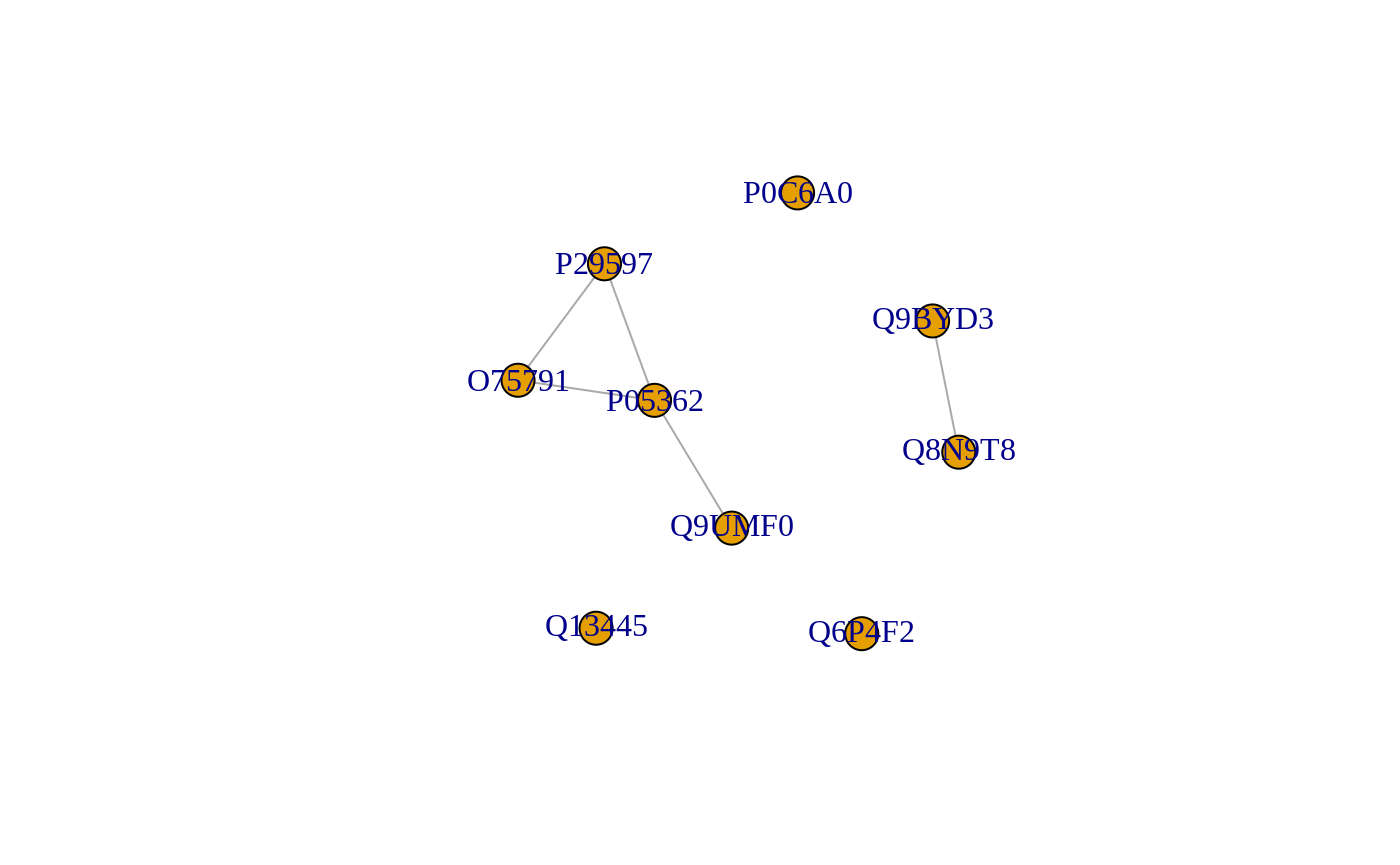
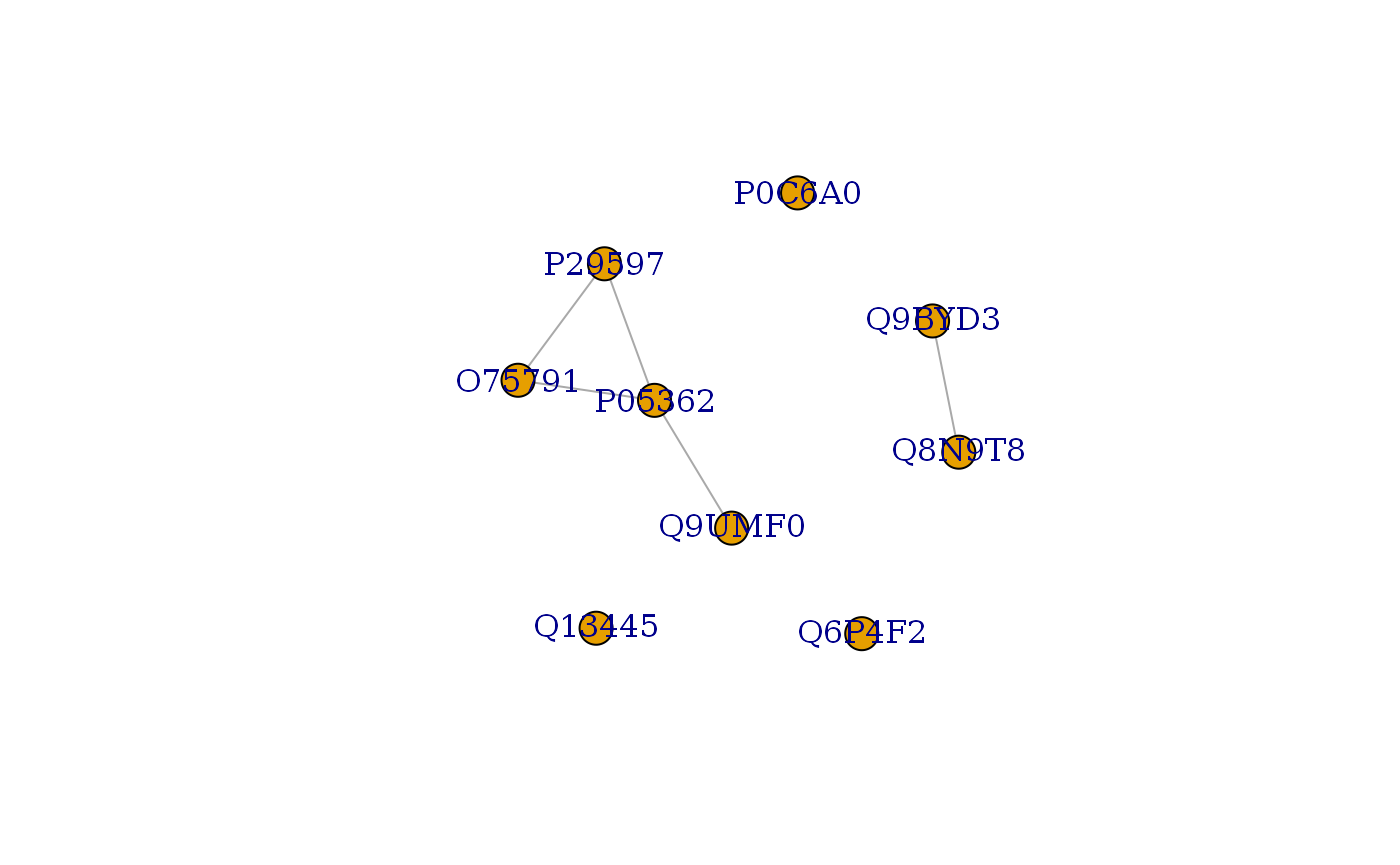
Built site for epigraphdb: 0.2.1@ec16644

diff --git a/articles/case-3-literature-triangulation.html b/articles/case-3-literature-triangulation.html
@@ -558,8 +558,10 @@
   <span class="kw">colrs</span> <span class="op">&lt;-</span> <span class="fu"><a href="https://rdrr.io/r/base/c.html">c</a></span>(<span class="st">"tomato"</span>, <span class="st">"steelblue"</span>, <span class="st">"gold"</span>)
   <span class="fu"><a href="https://rdrr.io/pkg/igraph/man/V.html">V</a></span>(<span class="kw">graph</span>)<span class="op">$</span><span class="kw">color</span> <span class="op">&lt;-</span> <span class="kw">colrs</span>[<span class="fu"><a href="https://rdrr.io/pkg/igraph/man/V.html">V</a></span>(<span class="kw">graph</span>)<span class="op">$</span><span class="kw">node_type</span>]
 
-  <span class="co"># set all plot margins to zero</span>
-  <span class="fu"><a href="https://rdrr.io/r/graphics/par.html">par</a></span>(mar = <span class="fu"><a href="https://rdrr.io/r/base/c.html">c</a></span>(<span class="fl">0</span>, <span class="fl">0</span>, <span class="fl">0</span>, <span class="fl">0</span>))
+  <span class="co"># Configure canvas</span>
+  <span class="kw">default_mar</span> <span class="op">&lt;-</span> <span class="fu"><a href="https://rdrr.io/r/graphics/par.html">par</a></span>(<span class="st">"mar"</span>)
+  <span class="kw">new_mar</span> <span class="op">&lt;-</span> <span class="fu"><a href="https://rdrr.io/r/base/c.html">c</a></span>(<span class="fl">0</span>, <span class="fl">0</span>, <span class="fl">0</span>, <span class="fl">0</span>)
+  <span class="fu"><a href="https://rdrr.io/r/graphics/par.html">par</a></span>(mar = <span class="kw">new_mar</span>)
 
   <span class="fu"><a href="https://rdrr.io/pkg/igraph/man/plot.igraph.html">plot.igraph</a></span>(<span class="kw">graph</span>,
     vertex.size = <span class="fl">13</span>,
@@ -571,6 +573,7 @@
     edge.label.family = <span class="st">"Helvetica"</span>,
     edge.label.cex = <span class="fl">0.5</span>
   )
+  <span class="fu"><a href="https://rdrr.io/r/graphics/par.html">par</a></span>(mar = <span class="kw">default_mar</span>)
 }
 </pre></div>
 <div class="sourceCode" id="cb16"><pre class="downlit">
@@ -657,17 +660,18 @@
 <span class="co">#&gt; [5] purrr_0.3.4      dplyr_1.0.2      magrittr_1.5    </span>
 <span class="co">#&gt; </span>
 <span class="co">#&gt; loaded via a namespace (and not attached):</span>
-<span class="co">#&gt;  [1] pillar_1.4.6       compiler_4.0.0     tools_4.0.0        digest_0.6.25     </span>
+<span class="co">#&gt;  [1] compiler_4.0.0     pillar_1.4.6       tools_4.0.0        digest_0.6.25     </span>
 <span class="co">#&gt;  [5] jsonlite_1.7.0     evaluate_0.14      memoise_1.1.0      lifecycle_0.2.0   </span>
 <span class="co">#&gt;  [9] tibble_3.0.3       gtable_0.3.0       pkgconfig_2.0.3    rlang_0.4.7       </span>
 <span class="co">#&gt; [13] cli_2.0.2          curl_4.3           yaml_2.2.1         pkgdown_1.5.1.9000</span>
 <span class="co">#&gt; [17] xfun_0.16          withr_2.2.0        stringr_1.4.0      httr_1.4.2        </span>
 <span class="co">#&gt; [21] knitr_1.29         generics_0.0.2     desc_1.2.0         fs_1.5.0          </span>
-<span class="co">#&gt; [25] vctrs_0.3.2        rprojroot_1.3-2    grid_4.0.0         tidyselect_1.1.0  </span>
-<span class="co">#&gt; [29] R6_2.4.1           fansi_0.4.1        rmarkdown_2.3.3    farver_2.0.3      </span>
-<span class="co">#&gt; [33] backports_1.1.8    scales_1.1.1       ellipsis_0.3.1     htmltools_0.5.0   </span>
-<span class="co">#&gt; [37] assertthat_0.2.1   colorspace_1.4-1   labeling_0.3       utf8_1.1.4        </span>
-<span class="co">#&gt; [41] stringi_1.4.6      munsell_0.5.0      crayon_1.3.4</span>
+<span class="co">#&gt; [25] vctrs_0.3.2        systemfonts_0.2.3  rprojroot_1.3-2    grid_4.0.0        </span>
+<span class="co">#&gt; [29] tidyselect_1.1.0   R6_2.4.1           fansi_0.4.1        rmarkdown_2.3.3   </span>
+<span class="co">#&gt; [33] farver_2.0.3       backports_1.1.9    scales_1.1.1       ellipsis_0.3.1    </span>
+<span class="co">#&gt; [37] htmltools_0.5.0    assertthat_0.2.1   colorspace_1.4-1   labeling_0.3      </span>
+<span class="co">#&gt; [41] ragg_0.3.1         utf8_1.1.4         stringi_1.4.6      munsell_0.5.0     </span>
+<span class="co">#&gt; [45] crayon_1.3.4</span>
 </pre></div>
 </div>
   </div>

diff --git a/news/index.html b/news/index.html
@@ -158,12 +158,14 @@
 
     <div id="epigraphdb-0-2-1-900" class="section level1">
 <h1 class="page-header" data-toc-text="0.2.1.900">
-<a href="#epigraphdb-0-2-1-900" class="anchor"></a>epigraphdb 0.2.1.900</h1>
+<a href="#epigraphdb-0-2-1-900" class="anchor"></a>epigraphdb 0.2.1.900<small> Unreleased </small>
+</h1>
 <p>Current ongoing development.</p>
 </div>
     <div id="epigraphdb-0-2-1-2020-08-06" class="section level1">
 <h1 class="page-header" data-toc-text="0.2.1">
-<a href="#epigraphdb-0-2-1-2020-08-06" class="anchor"></a>epigraphdb 0.2.1 (2020-08-06)</h1>
+<a href="#epigraphdb-0-2-1-2020-08-06" class="anchor"></a>epigraphdb 0.2.1 (2020-08-06)<small> 2020-08-26 </small>
+</h1>
 <ul>
 <li>use <code><a href="https://httr.r-lib.org/reference/RETRY.html">httr::RETRY</a></code> to mitigate problems due to network errors.</li>
 <li>Shortened the startup message.</li>
@@ -176,14 +178,16 @@
 </div>
     <div id="epigraphdb-0-2-2020-04-21" class="section level1">
 <h1 class="page-header" data-toc-text="0.2">
-<a href="#epigraphdb-0-2-2020-04-21" class="anchor"></a>epigraphdb 0.2 (2020-04-21)</h1>
+<a href="#epigraphdb-0-2-2020-04-21" class="anchor"></a>epigraphdb 0.2 (2020-04-21)<small> Unreleased </small>
+</h1>
 <ul>
 <li>Migrated to EpiGraphDB v0.3.0 API.</li>
 </ul>
 </div>
     <div id="epigraphdb-0-1-0-9" class="section level1">
 <h1 class="page-header" data-toc-text="0.1.0.9">
-<a href="#epigraphdb-0-1-0-9" class="anchor"></a>epigraphdb 0.1.0.9</h1>
+<a href="#epigraphdb-0-1-0-9" class="anchor"></a>epigraphdb 0.1.0.9<small> Unreleased </small>
+</h1>
 <p>Current ongoing development</p>
 <ul>
 <li>(2020-03) Move upstream API url to <a href="https://api.epigraphdb.org/v0.2.0" class="uri">https://api.epigraphdb.org/v0.2.0</a>
@@ -193,12 +197,14 @@
 </div>
     <div id="epigraphdb-0-1-2019-07-04" class="section level1">
 <h1 class="page-header" data-toc-text="0.1">
-<a href="#epigraphdb-0-1-2019-07-04" class="anchor"></a>epigraphdb 0.1 (2019-07-04)</h1>
+<a href="#epigraphdb-0-1-2019-07-04" class="anchor"></a>epigraphdb 0.1 (2019-07-04)<small> Unreleased </small>
+</h1>
 <p>Initial release on github</p>
 </div>
     <div id="epigraphdb-0-0-0-9000-2019-04-11" class="section level1">
 <h1 class="page-header" data-toc-text="0.0.0.9000">
-<a href="#epigraphdb-0-0-0-9000-2019-04-11" class="anchor"></a>epigraphdb 0.0.0.9000 (2019-04-11)</h1>
+<a href="#epigraphdb-0-0-0-9000-2019-04-11" class="anchor"></a>epigraphdb 0.0.0.9000 (2019-04-11)<small> Unreleased </small>
+</h1>
 <p>Initial pre-development</p>
 </div>
   </div>

diff --git a/articles/case-1-pleiotropy.html b/articles/case-1-pleiotropy.html
@@ -568,15 +568,16 @@
 <span class="co">#&gt; [5] dplyr_1.0.2      magrittr_1.5    </span>
 <span class="co">#&gt; </span>
 <span class="co">#&gt; loaded via a namespace (and not attached):</span>
-<span class="co">#&gt;  [1] knitr_1.29         tidyselect_1.1.0   R6_2.4.1           rlang_0.4.7       </span>
-<span class="co">#&gt;  [5] fansi_0.4.1        httr_1.4.2         stringr_1.4.0      tools_4.0.0       </span>
-<span class="co">#&gt;  [9] xfun_0.16          utf8_1.1.4         cli_2.0.2          gtools_3.8.2      </span>
-<span class="co">#&gt; [13] htmltools_0.5.0    ellipsis_0.3.1     yaml_2.2.1         assertthat_0.2.1  </span>
-<span class="co">#&gt; [17] rprojroot_1.3-2    digest_0.6.25      tibble_3.0.3       lifecycle_0.2.0   </span>
-<span class="co">#&gt; [21] pkgdown_1.5.1.9000 crayon_1.3.4       vctrs_0.3.2        fs_1.5.0          </span>
-<span class="co">#&gt; [25] curl_4.3           memoise_1.1.0      evaluate_0.14      rmarkdown_2.3.3   </span>
-<span class="co">#&gt; [29] stringi_1.4.6      compiler_4.0.0     pillar_1.4.6       desc_1.2.0        </span>
-<span class="co">#&gt; [33] generics_0.0.2     backports_1.1.8    jsonlite_1.7.0     pkgconfig_2.0.3</span>
+<span class="co">#&gt;  [1] knitr_1.29         tidyselect_1.1.0   R6_2.4.1           ragg_0.3.1        </span>
+<span class="co">#&gt;  [5] rlang_0.4.7        fansi_0.4.1        httr_1.4.2         stringr_1.4.0     </span>
+<span class="co">#&gt;  [9] tools_4.0.0        xfun_0.16          utf8_1.1.4         cli_2.0.2         </span>
+<span class="co">#&gt; [13] gtools_3.8.2       htmltools_0.5.0    systemfonts_0.2.3  ellipsis_0.3.1    </span>
+<span class="co">#&gt; [17] yaml_2.2.1         assertthat_0.2.1   rprojroot_1.3-2    digest_0.6.25     </span>
+<span class="co">#&gt; [21] tibble_3.0.3       lifecycle_0.2.0    pkgdown_1.5.1.9000 crayon_1.3.4      </span>
+<span class="co">#&gt; [25] vctrs_0.3.2        fs_1.5.0           curl_4.3           memoise_1.1.0     </span>
+<span class="co">#&gt; [29] evaluate_0.14      rmarkdown_2.3.3    stringi_1.4.6      pillar_1.4.6      </span>
+<span class="co">#&gt; [33] compiler_4.0.0     desc_1.2.0         generics_0.0.2     backports_1.1.9   </span>
+<span class="co">#&gt; [37] jsonlite_1.7.0     pkgconfig_2.0.3</span>
 </pre></div>
 </div>
   </div>

diff --git a/articles/meta-functionalities.html b/articles/meta-functionalities.html
@@ -627,15 +627,16 @@
 <span class="co">#&gt; [5] magrittr_1.5    </span>
 <span class="co">#&gt; </span>
 <span class="co">#&gt; loaded via a namespace (and not attached):</span>
-<span class="co">#&gt;  [1] knitr_1.29         tidyselect_1.1.0   R6_2.4.1           rlang_0.4.7       </span>
-<span class="co">#&gt;  [5] fansi_0.4.1        httr_1.4.2         stringr_1.4.0      tools_4.0.0       </span>
-<span class="co">#&gt;  [9] xfun_0.16          utf8_1.1.4         cli_2.0.2          htmltools_0.5.0   </span>
-<span class="co">#&gt; [13] ellipsis_0.3.1     yaml_2.2.1         assertthat_0.2.1   rprojroot_1.3-2   </span>
-<span class="co">#&gt; [17] digest_0.6.25      tibble_3.0.3       lifecycle_0.2.0    pkgdown_1.5.1.9000</span>
-<span class="co">#&gt; [21] crayon_1.3.4       vctrs_0.3.2        fs_1.5.0           curl_4.3          </span>
-<span class="co">#&gt; [25] memoise_1.1.0      glue_1.4.1         evaluate_0.14      rmarkdown_2.3.3   </span>
-<span class="co">#&gt; [29] stringi_1.4.6      compiler_4.0.0     pillar_1.4.6       desc_1.2.0        </span>
-<span class="co">#&gt; [33] generics_0.0.2     backports_1.1.8    jsonlite_1.7.0     pkgconfig_2.0.3</span>
+<span class="co">#&gt;  [1] knitr_1.29         tidyselect_1.1.0   R6_2.4.1           ragg_0.3.1        </span>
+<span class="co">#&gt;  [5] rlang_0.4.7        fansi_0.4.1        httr_1.4.2         stringr_1.4.0     </span>
+<span class="co">#&gt;  [9] tools_4.0.0        xfun_0.16          utf8_1.1.4         cli_2.0.2         </span>
+<span class="co">#&gt; [13] htmltools_0.5.0    systemfonts_0.2.3  ellipsis_0.3.1     yaml_2.2.1        </span>
+<span class="co">#&gt; [17] assertthat_0.2.1   rprojroot_1.3-2    digest_0.6.25      tibble_3.0.3      </span>
+<span class="co">#&gt; [21] lifecycle_0.2.0    pkgdown_1.5.1.9000 crayon_1.3.4       vctrs_0.3.2       </span>
+<span class="co">#&gt; [25] fs_1.5.0           curl_4.3           memoise_1.1.0      glue_1.4.1        </span>
+<span class="co">#&gt; [29] evaluate_0.14      rmarkdown_2.3.3    stringi_1.4.6      pillar_1.4.6      </span>
+<span class="co">#&gt; [33] compiler_4.0.0     desc_1.2.0         generics_0.0.2     backports_1.1.9   </span>
+<span class="co">#&gt; [37] jsonlite_1.7.0     pkgconfig_2.0.3</span>
 </pre></div>
 </div>
   </div>

diff --git a/articles/case-2-alt-drug-target.html b/articles/case-2-alt-drug-target.html
@@ -341,15 +341,16 @@
 <span class="co">#&gt; [5] magrittr_1.5    </span>
 <span class="co">#&gt; </span>
 <span class="co">#&gt; loaded via a namespace (and not attached):</span>
-<span class="co">#&gt;  [1] knitr_1.29         tidyselect_1.1.0   R6_2.4.1           rlang_0.4.7       </span>
-<span class="co">#&gt;  [5] fansi_0.4.1        httr_1.4.2         stringr_1.4.0      tools_4.0.0       </span>
-<span class="co">#&gt;  [9] xfun_0.16          utf8_1.1.4         cli_2.0.2          htmltools_0.5.0   </span>
-<span class="co">#&gt; [13] ellipsis_0.3.1     yaml_2.2.1         assertthat_0.2.1   rprojroot_1.3-2   </span>
-<span class="co">#&gt; [17] digest_0.6.25      tibble_3.0.3       lifecycle_0.2.0    pkgdown_1.5.1.9000</span>
-<span class="co">#&gt; [21] crayon_1.3.4       vctrs_0.3.2        fs_1.5.0           curl_4.3          </span>
-<span class="co">#&gt; [25] memoise_1.1.0      evaluate_0.14      rmarkdown_2.3.3    stringi_1.4.6     </span>
-<span class="co">#&gt; [29] compiler_4.0.0     pillar_1.4.6       desc_1.2.0         generics_0.0.2    </span>
-<span class="co">#&gt; [33] backports_1.1.8    jsonlite_1.7.0     pkgconfig_2.0.3</span>
+<span class="co">#&gt;  [1] knitr_1.29         tidyselect_1.1.0   R6_2.4.1           ragg_0.3.1        </span>
+<span class="co">#&gt;  [5] rlang_0.4.7        fansi_0.4.1        httr_1.4.2         stringr_1.4.0     </span>
+<span class="co">#&gt;  [9] tools_4.0.0        xfun_0.16          utf8_1.1.4         cli_2.0.2         </span>
+<span class="co">#&gt; [13] htmltools_0.5.0    systemfonts_0.2.3  ellipsis_0.3.1     yaml_2.2.1        </span>
+<span class="co">#&gt; [17] assertthat_0.2.1   rprojroot_1.3-2    digest_0.6.25      tibble_3.0.3      </span>
+<span class="co">#&gt; [21] lifecycle_0.2.0    pkgdown_1.5.1.9000 crayon_1.3.4       vctrs_0.3.2       </span>
+<span class="co">#&gt; [25] fs_1.5.0           curl_4.3           memoise_1.1.0      evaluate_0.14     </span>
+<span class="co">#&gt; [29] rmarkdown_2.3.3    stringi_1.4.6      pillar_1.4.6       compiler_4.0.0    </span>
+<span class="co">#&gt; [33] desc_1.2.0         generics_0.0.2     backports_1.1.9    jsonlite_1.7.0    </span>
+<span class="co">#&gt; [37] pkgconfig_2.0.3</span>
 </pre></div>
 </div>
   </div>

diff --git a/articles/using-epigraphdb-api.html b/articles/using-epigraphdb-api.html
@@ -157,7 +157,7 @@
 <span class="co">#&gt; List of 2</span>
 <span class="co">#&gt;  $ metadata:List of 3</span>
 <span class="co">#&gt;   ..$ query        : chr "MATCH (exposure:Gwas)-[mr:MR]-&gt;(outcome:Gwas) WHERE exposure.trait = \"Body mass index\" AND outcome.trait = \""| __truncated__</span>
-<span class="co">#&gt;   ..$ total_seconds: num 0.0136</span>
+<span class="co">#&gt;   ..$ total_seconds: num 0.015</span>
 <span class="co">#&gt;   ..$ empty_results: logi FALSE</span>
 <span class="co">#&gt;  $ results :List of 6</span>
 <span class="co">#&gt;   ..$ :List of 3</span>
@@ -178,7 +178,7 @@
 <span class="co">#&gt; List of 2</span>
 <span class="co">#&gt;  $ metadata:List of 3</span>
 <span class="co">#&gt;   ..$ query        : chr "MATCH (exposure:Gwas)-[mr:MR]-&gt;(outcome:Gwas) WHERE exposure.trait = \"Body mass index\" AND outcome.trait = \""| __truncated__</span>
-<span class="co">#&gt;   ..$ total_seconds: num 0.0139</span>
+<span class="co">#&gt;   ..$ total_seconds: num 0.0126</span>
 <span class="co">#&gt;   ..$ empty_results: logi FALSE</span>
 <span class="co">#&gt;  $ results :List of 6</span>
 <span class="co">#&gt;   ..$ :List of 3</span>

diff --git a/reference/mr.html b/reference/mr.html
@@ -224,7 +224,7 @@ with minimal parsing done by <a href='https://httr.r-lib.org/'><code>httr</code>
 ) <span class='op'>%&gt;%</span> <span class='fu'><a href='https://rdrr.io/r/utils/str.html'>str</a></span>()</div><div class='output co'>#&gt; List of 2
 #&gt;  $ metadata:List of 3
 #&gt;   ..$ query        : chr "MATCH (exposure:Gwas)-[mr:MR]-&gt;(outcome:Gwas) WHERE exposure.trait = \"Body mass index\" AND outcome.trait = \""| __truncated__
-#&gt;   ..$ total_seconds: num 0.015
+#&gt;   ..$ total_seconds: num 0.0124
 #&gt;   ..$ empty_results: logi FALSE
 #&gt;  $ results :List of 6
 #&gt;   ..$ :List of 3

diff --git a/articles/using-epigraphdb-r-package.html b/articles/using-epigraphdb-r-package.html
@@ -234,7 +234,7 @@
 <span class="co">#&gt; List of 2</span>
 <span class="co">#&gt;  $ metadata:List of 3</span>
 <span class="co">#&gt;   ..$ query        : chr "MATCH (exposure:Gwas)-[mr:MR]-&gt;(outcome:Gwas) WHERE exposure.trait = \"Body mass index\" AND outcome.trait = \""| __truncated__</span>
-<span class="co">#&gt;   ..$ total_seconds: num 0.0125</span>
+<span class="co">#&gt;   ..$ total_seconds: num 0.0134</span>
 <span class="co">#&gt;   ..$ empty_results: logi FALSE</span>
 <span class="co">#&gt;  $ results :List of 6</span>
 <span class="co">#&gt;   ..$ :List of 3</span>

diff --git a/index.html b/index.html
@@ -474,6 +474,8 @@
     <div class="links">
 <h2>Links</h2>
 <ul class="list-unstyled">
+<li>Download from CRAN at <br><a href="https://cloud.r-project.org/package=epigraphdb">https://cloud.r-project.org/package=epigraphdb</a>
+</li>
 <li>Browse source code at <br><a href="https://github.com/MRCIEU/epigraphdb-r/">https://github.com/MRCIEU/epigraphdb-r/</a>
 </li>
 <li>Report a bug at <br><a href="https://github.com/MRCIEU/epigraphdb-r/issues">https://github.com/MRCIEU/epigraphdb-r/issues</a>

diff --git a/reference/query_epigraphdb.html b/reference/query_epigraphdb.html
@@ -266,7 +266,7 @@ For details, please refer to <a href='https://httr.r-lib.org/reference/POST.html
 #&gt; [1] "MATCH p=(protein:Protein)-[r:STRING_INTERACT_WITH]-(assoc_protein:Protein) WHERE protein.uniprot_id IN ['P30793', 'Q9NZM1', 'O95236'] RETURN protein {.uniprot_id}, assoc_protein {.uniprot_id}"
 #&gt; 
 #&gt; $metadata$total_seconds
-#&gt; [1] 0.011473
+#&gt; [1] 0.011244
 #&gt; 
 #&gt; $metadata$empty_results
 #&gt; [1] FALSE
